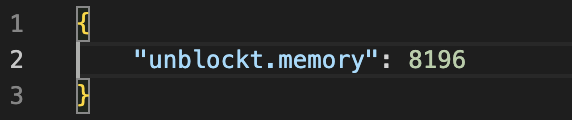
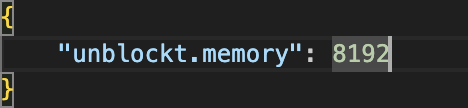
fix default memory settings and screenshot

Changed region(s): [[0.1197, 0.0278, 0.8376, 0.9722], [0.0, 0.0, 0.0598, 1.0]]

diff --git a/extension/src/extension.ts b/extension/src/extension.ts
@@ -10,7 +10,7 @@ import {readFileSync} from 'node:fs';
 import * as os from "node:os";
 
 let client: LanguageClient;
-const defaultMemory = '-Xmx4098m'
+const defaultMemory = '-Xmx4096m'
 
 export function activate(context: ExtensionContext) {
     const isProduction = context.extensionMode == ExtensionMode.Production
